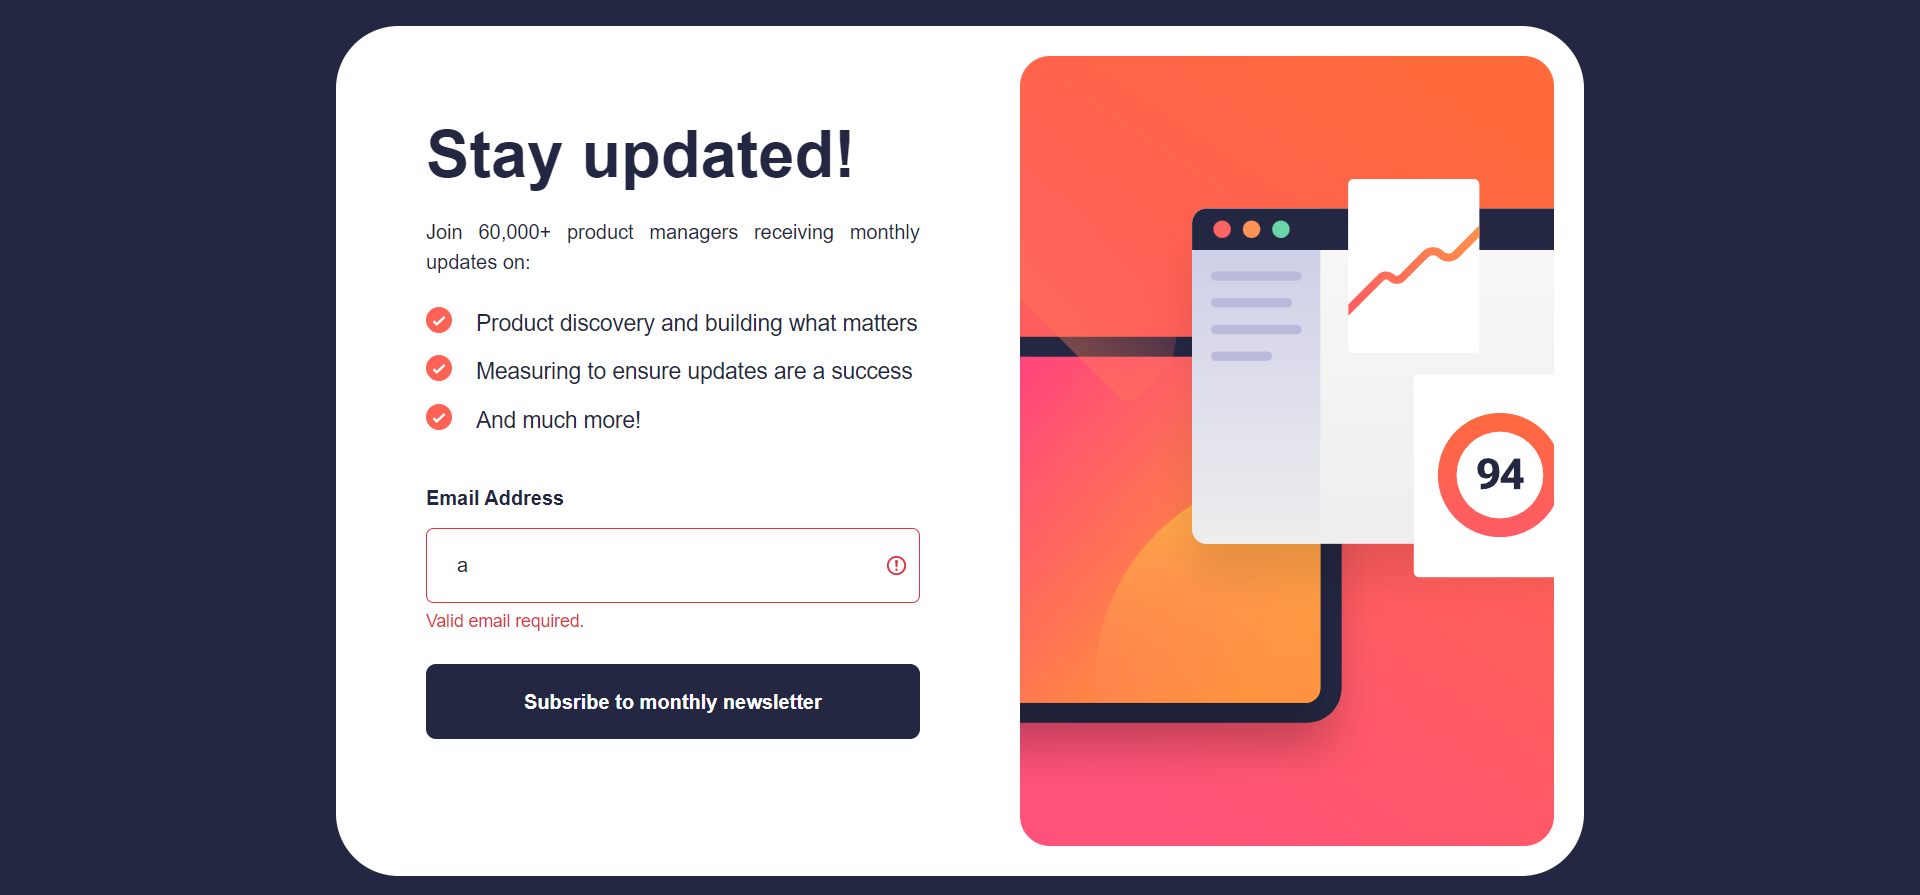
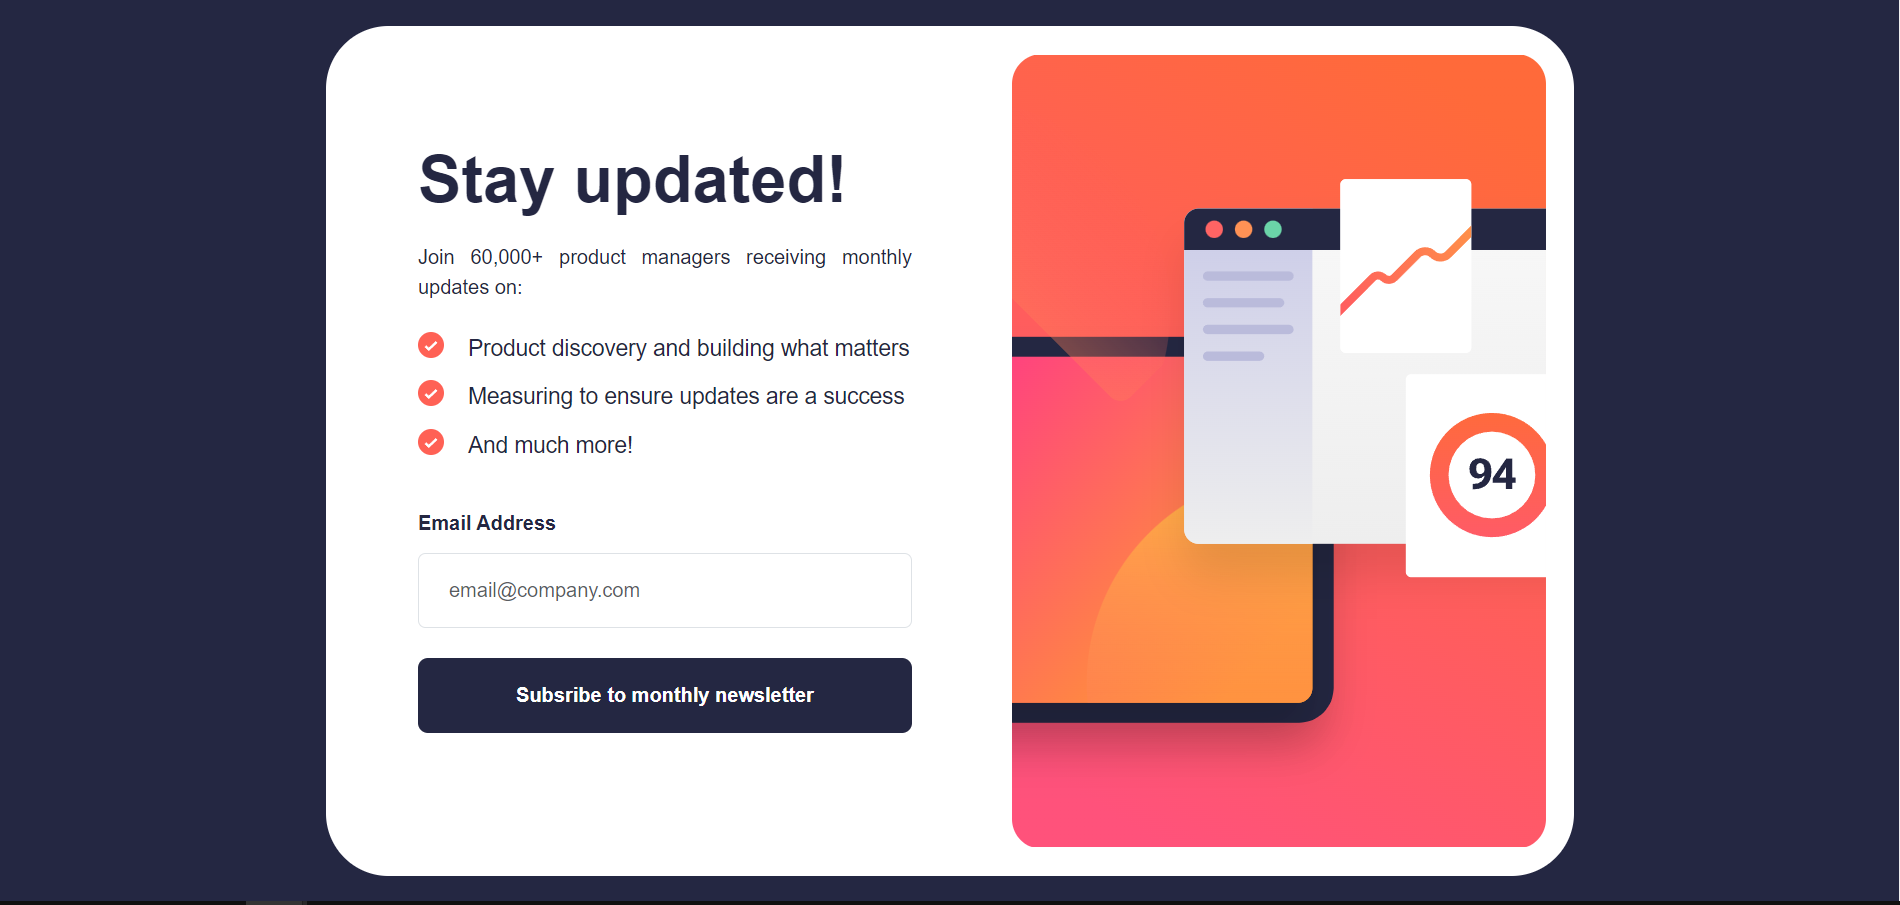
modified:   design/sulution-screenshot.png 	modified:   src/css/style.css

diff --git a/src/css/style.css b/src/css/style.css
@@ -93,14 +93,14 @@ html, body {
     max-width: 65vw;
     height: 680px;
     border-radius: 50px;
-    padding: 16px;
+    padding: 22px;
     box-sizing: border-box;
     justify-content: space-between;
 }
     .form-wrap {
         width: 50%;
         height: 100%;
-        margin: 30px 0 30px 48px;
+        margin: 52px 0 30px 52px;
         padding-right: 80px;
     }
 
